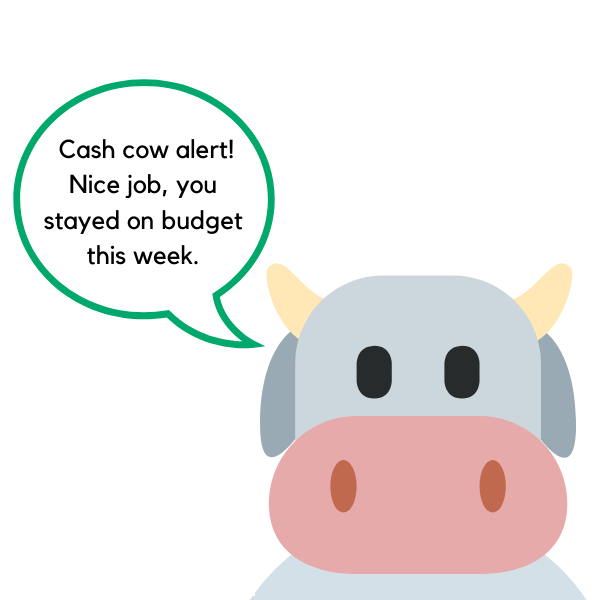
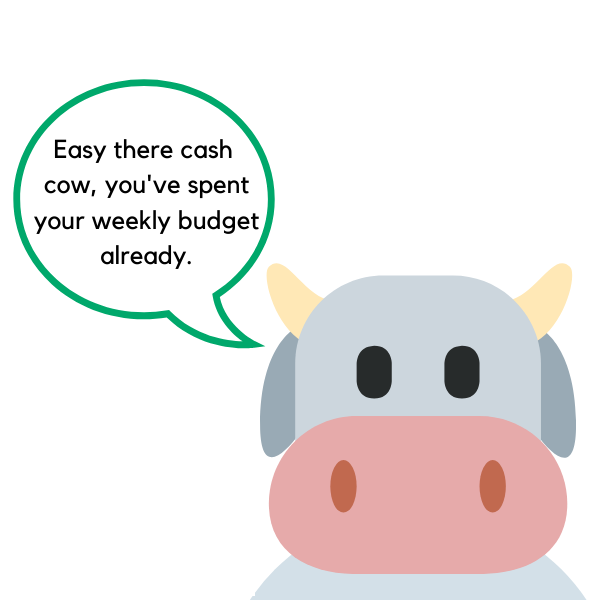
Cletus now tells you when you've spent the money you had and does a separate alert when you're over budget

Changed region(s): [[0.06, 0.21, 0.42, 0.33], [0.06, 0.36, 0.45, 0.45]]

diff --git a/scripts.js b/scripts.js
@@ -78,7 +78,10 @@ function moneyLeft() {
     document.getElementById("myBar").style.width = `${remainingPercent}%`;
 }
 function overBudget(){
-    if (totalSpent >= totalBudget){
+    if (totalSpent == totalBudget){
+        document.getElementById("cashCow").style.display = "contents";
+}else if (totalSpent > totalBudget){
         document.getElementById("alertCow").style.display = "contents";
+        document.getElementById("cashCow").style.display = "none";
     }
 }

diff --git a/index.html b/index.html
@@ -76,8 +76,10 @@
     <div class="alert">
             <span id="alertCow"><img  src="./images/Moola Cow.png" alt="Alert Cow" style="width:300px;height:300px;">
             </span>
+            <span id="cashCow"><img  src="./images/CashCowAlert.png" alt="Cash Cow Alert" style="width:300px;height:300px;">
+            </span>
             </div>
-
+</div>
 <script src="scripts.js"></script>
 </body>
 </html>

diff --git a/styles.css b/styles.css
@@ -176,9 +176,7 @@ select {
 
 }
 .alert{
-/* display: flex;
-align-items: flex-end;
-justify-content: flex-end; */
+
 position: fixed;
     bottom: 0;
     right: 0;
@@ -186,6 +184,9 @@ position: fixed;
 }
 #alertCow{
   display: none;
+}
+#cashCow{
+  display:none;
 }
 
   @media screen and (max-width: 200px) {
